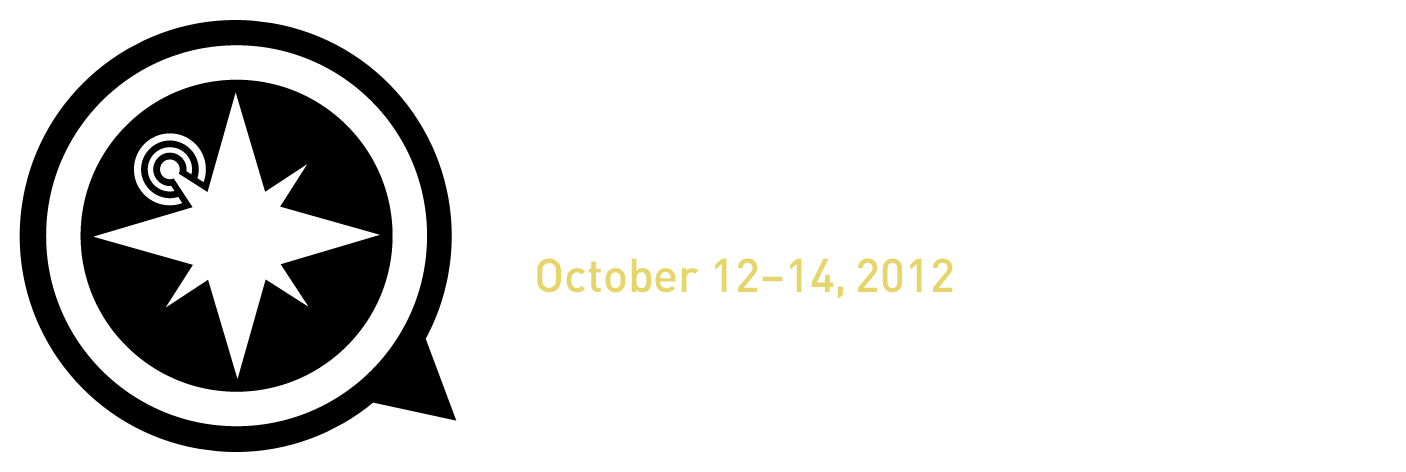
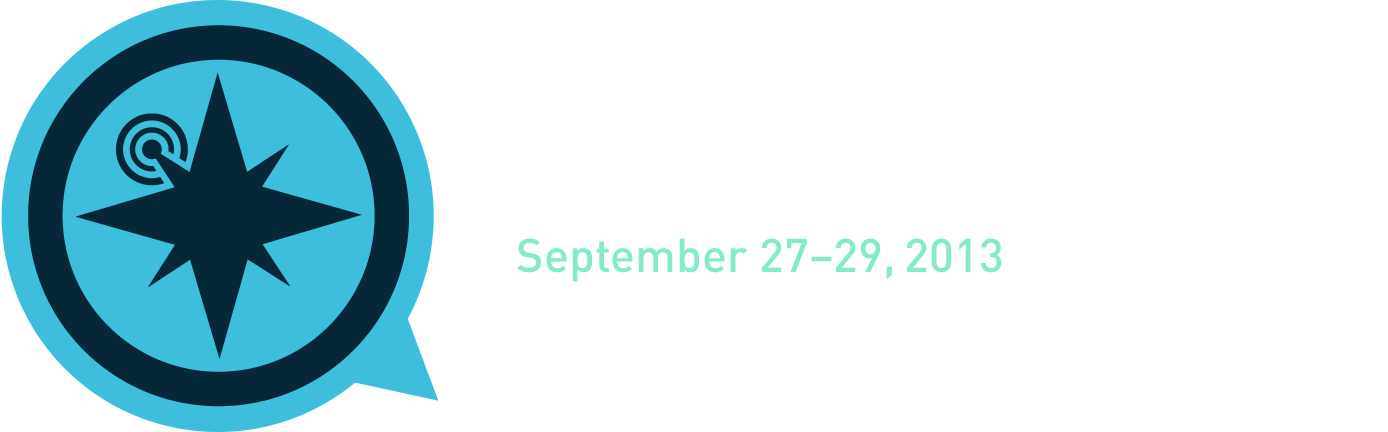
Initial update for 2013

Changed region(s): [[0.0, 0.0, 0.3408, 1.0], [0.3718, 0.5417, 0.7435, 0.6319]]

diff --git a/style.css b/style.css
@@ -211,7 +211,7 @@ padding:0;
 
 
 body {
-	background: #f6f4cc url(i/background.jpg) no-repeat scroll center top;
+	background: #f6f4cc url(i/background.png) no-repeat scroll center top;
 	font-family: "Helvetica Neue", "Arial", "Helvetica"
 }
 
@@ -222,7 +222,7 @@ body {
 }
 
 #header {
-	background: url('i/header.png') no-repeat 115px 7px;
+	background: url('i/header.png') no-repeat 125px 7px;
 	height: 246px;
 	position: relative;
 	z-index: 5;
@@ -231,7 +231,7 @@ body {
 @media all and (-webkit-min-device-pixel-ratio: 1.5) {
   #header {
     background-image: url('i/header@2x.png');
-    background-size: 694px 219px;
+    background-size: 694px 216px;
   }
 }
 

diff --git a/functions.php b/functions.php
@@ -518,10 +518,10 @@ function wordcamp_global_nav() {
       <li><a href='/' class='first{$active['news']}'>News</a></li>
       <li><a href='/about/'{$active['about']}>About</a></li>
       <li><a href='/specifics/'{$active['specifics']}>Specifics</a></li>
-      <li><a href='/wiki/2012/sessions/' class='{$active['sessions']}'>Sessions</a></li>
+      <li><a href='/wiki/2013/sessions/' class='{$active['sessions']}'>Sessions</a></li>
       <li><a href='/sponsorships/'{$active['sponsorships']} class='{$active['sponsorships']}'>Sponsors</a></li>
-      <li><a href='/wiki/2012' class='last'>Wiki</a></li>
-      <li><a href='http://wherecamppdx5.eventbrite.com/' class='register'>Register now!</a></li>
+      <li><a href='/wiki/2013' class='last'>Wiki</a></li>
+      <li><a href='http://wherecamppdx6.eventbrite.com/' class='register'>Register now!</a></li>
     </ul>
   </div>
 QQ;
